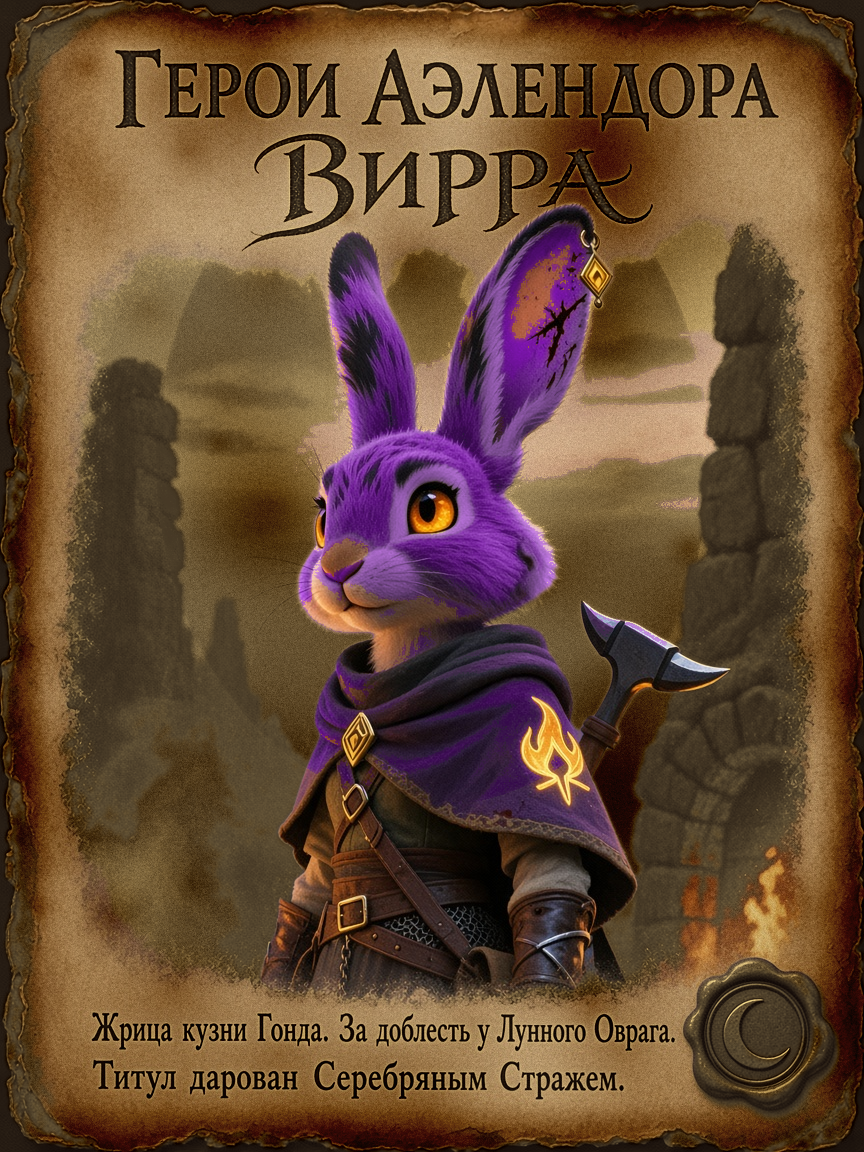
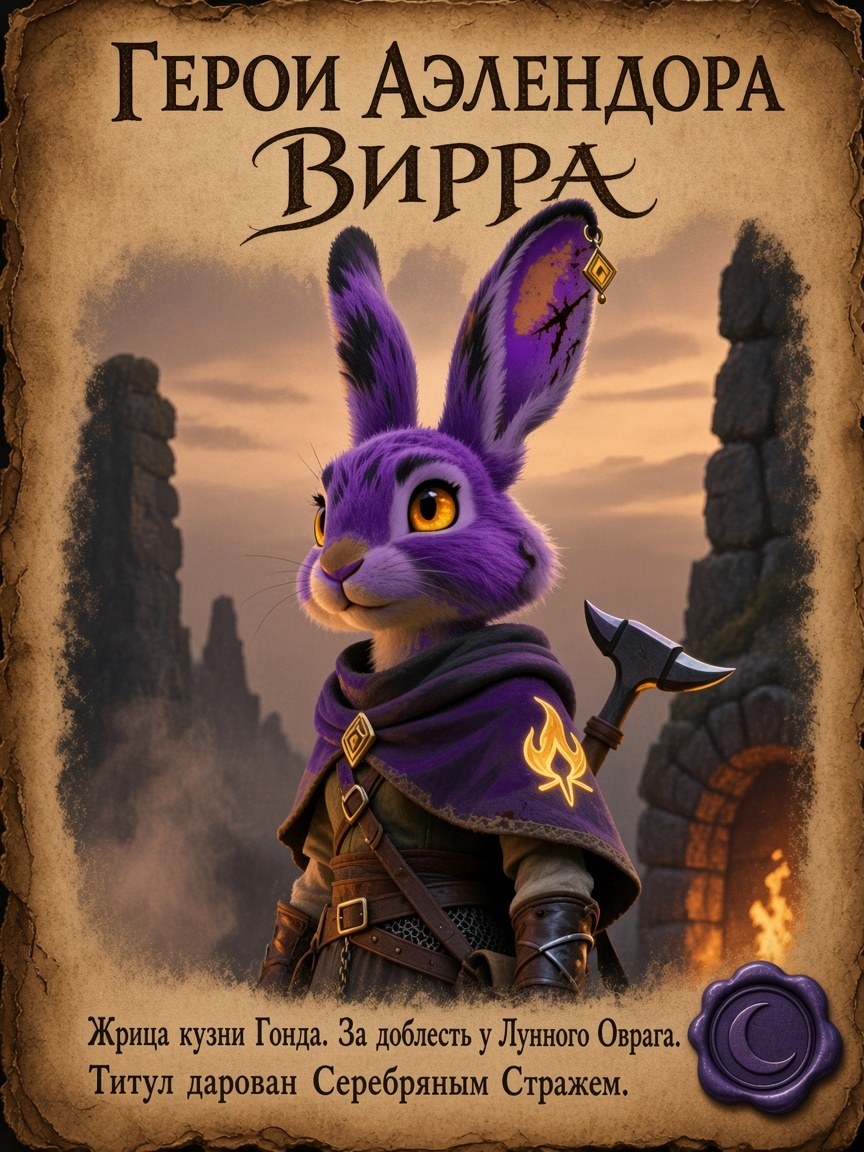
Fix Virra poster from master attachment; add Elarion hero poster.
Replace 02-heroes-virra with the provided reference art and add
06-heroes-elarion in the same typography and parchment series style.

diff --git a/assets/prompts/parchment-posters.md b/assets/prompts/parchment-posters.md
@@ -94,7 +94,21 @@ source: gm
 
 ![Кавил](../images/parchment-posters/05-heroes-kavil.png)
 
+### 6. Герои — Эларион
+
+Референс: [`../images/portraits/elarion.png`](../images/portraits/elarion.png)  
+Астральный эльф, чародей драконьей крови: серебряные волосы, фиолетовые глаза, синяя магия в ладони.
+
+Текст:
+
+- ГЕРОИ АЭЛЕНДОРА / Эларион
+- Чародей драконьей крови.
+- За доблесть у Лунного Оврага.
+- Титул дарован Серебряным Стражем.
+
+![Эларион](../images/parchment-posters/06-heroes-elarion.png)
+
 ## Кандидаты дальше
 
-**Герои:** Плач звезды, Эларион, общая афиша «Бродяга».  
+**Герои:** Плач звезды, общая афиша «Бродяга».  
 **Злодеи:** Пиппин, Багал, Хвост Скорпиона, Культ Лолс, Константин III.

diff --git a/assets/images/parchment-posters/README.md b/assets/images/parchment-posters/README.md
@@ -18,7 +18,8 @@ tags: [visual, merch, parchment]
 | `03-heroes-baltan.png` | Балтан | герои Аэлендора |
 | `04-heroes-drannik.png` | Дранник | герои Аэлендора |
 | `05-heroes-kavil.png` | Кавил | герои Аэлендора |
+| `06-heroes-elarion.png` | Эларион | герои Аэлендора |
 
-Нумерация — порядок серии. Новые афиши добавлять сюда же: `06-…`, `07-…`.
+Нумерация — порядок серии. Новые афиши добавлять сюда же: `07-…`, `08-…`.
 
 **Шрифты (эталон — `02-heroes-virra.png`):** заголовок serif CAPS → имя каллиграфией Title Case → низ чистый serif.
